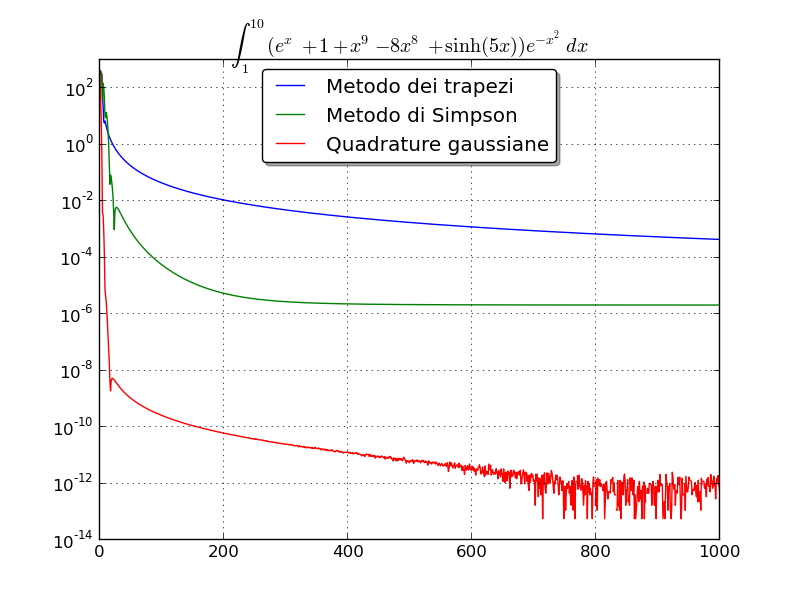
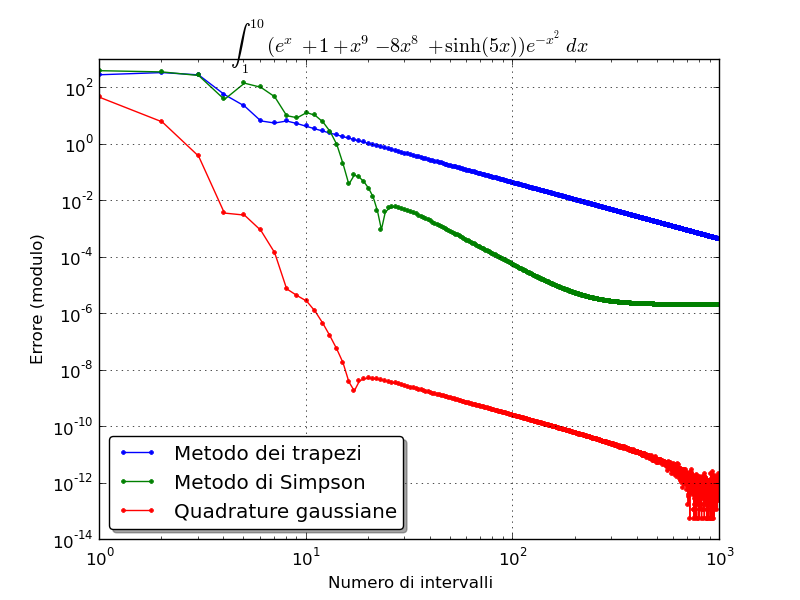
modify python scripts

diff --git a/relazione/integrali.py b/relazione/integrali.py
@@ -11,8 +11,7 @@
 ### (exp(x)+1+pow(x,9)-8*pow(x,8)+sinh(5*x))*exp(-pow(x,2));
 ## Integrale vero = 417.8077704440582
 funz1vero = 417.8077704440582
-funzione1 = [[0, 0, 0, 0],
-[1, 117.4075154705481, 0, 465.0509655281559],
+funzione1 = [[1, 117.4075154705481, 0, 465.0509655281559],
 [2, 58.84759473656114, 39.32762115856549, 411.3857610994526],
 [3, 120.9445822949099, 135.1688828191317, 418.2017771758039],
 [4, 358.0333371798721, 457.7619179943091, 417.8115628800424],
@@ -1023,11 +1022,35 @@ for i in [1, 2, 3]:
   for el in funzione1:
     a.append(abs(el[i]-funz1vero))
     n.append(el[0])
-  plt.plot(n, a)
+  plt.plot(n, a, '.-')
   plt.yscale('log')
+  plt.xscale('log')
   
+plt.xlabel('Numero di intervalli')
+plt.ylabel('Errore (modulo)')
 plt.legend(('Metodo dei trapezi', 'Metodo di Simpson', 'Quadrature gaussiane'),
-           'upper center', shadow=True, fancybox=True)
+           'lower left', shadow=True, fancybox=True)
 plt.grid(True)
 plt.savefig("integrali.png")
+
+
+plt.clf()
+plt.title(r"$\int_1^{10} (e^x+1+x^9-8x^8+\sinh(5x))e^{-x^2}dx$")
+for i in [1, 2, 3]:
+  a = []
+  n = []
+  for el in funzione1:
+    a.append(abs(el[i]-funz1vero))
+    n.append(1./(10*el[0]))
+  plt.plot(n, a, '.-')
+  plt.yscale('log')
+  plt.xscale('log')
+  
+plt.xlabel('Larghezza dell\'intervallo')
+plt.ylabel('Errore (modulo)')
+plt.legend(('Metodo dei trapezi', 'Metodo di Simpson', 'Quadrature gaussiane'),
+           'lower right', shadow=True, fancybox=True)
+plt.grid(True)
+plt.savefig("integrali-intervalli.png")
+
 

diff --git a/relazione/serie.py b/relazione/serie.py
@@ -14,7 +14,7 @@ sommaDecrescente = [[2, 1.25, -0.394934],[4, 1.42361, -0.221323],[8, 1.52742, -0
 import matplotlib.pyplot as plt
 
 plt.clf()
-plt.title(r"$\sum_{i=1}^{N} \frac{1}{n^2}$")
+plt.title(r"$\sum_{n=1}^{N} \frac{1}{n^2}$")
 #for i in [1, 2]:
 a = []
 n = []
@@ -30,7 +30,9 @@ for el in sommaDecrescente:
 plt.plot(n, a, '.')
 plt.yscale('log')
 plt.xscale('log')
-  
+plt.xlabel(r'$N$')
+plt.ylabel('Errore (modulo)')
+
 plt.legend(('Somma crescente', 'Somma decrescente'),
            'upper center', shadow=True, fancybox=True)
 plt.grid(True)

diff --git a/relazione/integrali-mc.py b/relazione/integrali-mc.py
@@ -1,0 +1,24 @@
+
+import matplotlib.pyplot as plt
+
+#execfile("mc-out.py")
+#execfile('deltamc.py')
+execfile('build/deltamc2.py')
+
+x = []
+y = []
+
+for i in a:
+    x.append(i[0])
+    y.append(abs(i[1]))
+
+plt.clf()
+plt.plot(x, y, '.-')
+plt.yscale('log')
+plt.grid(True)
+plt.xscale('log')
+plt.xlabel('Numero di campionamenti')
+plt.ylabel('Errore (modulo)')
+
+plt.savefig('outmc.png')
+
